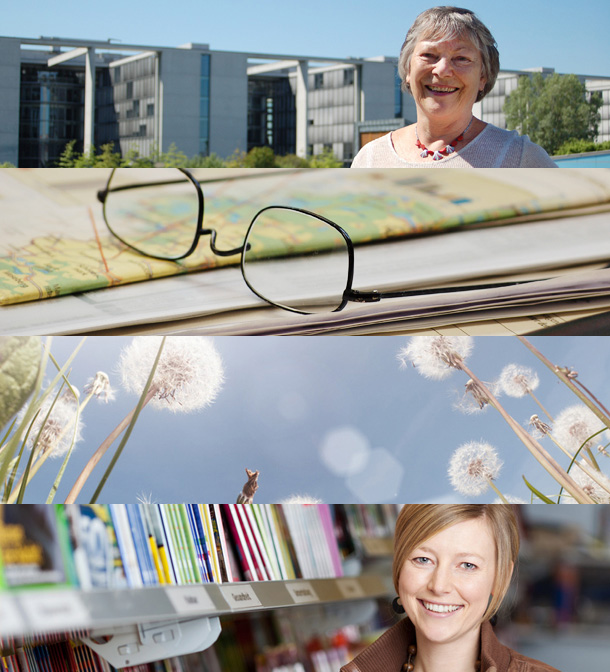
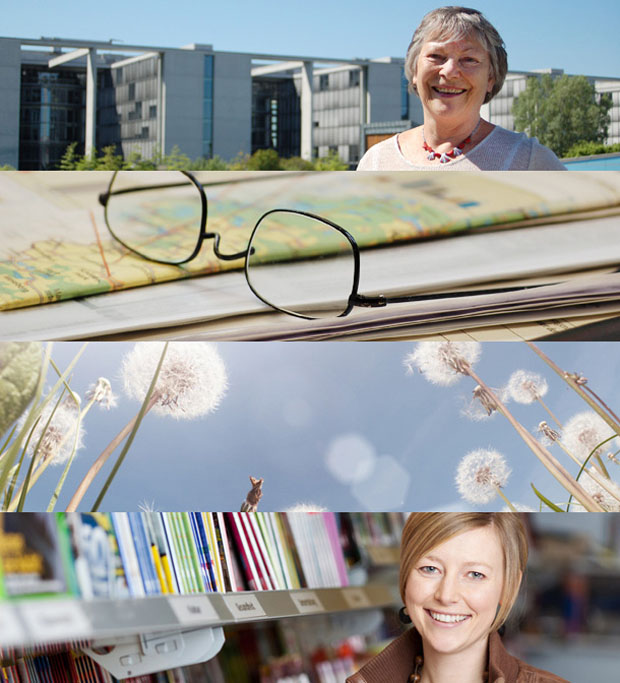
[AW-1188] make slider 620px

diff --git a/sites/all/themes/custom/parliamentwatch/css/slider.css b/sites/all/themes/custom/parliamentwatch/css/slider.css
@@ -35,6 +35,7 @@
 }
 .view-slider {
     height: 168px !important;
+    position: relative;
 }
 .view-slider #views_slideshow_cycle_teaser_section_slider-block,
 .view-slider #views_slideshow_cycle_main_slider-block,
@@ -76,10 +77,10 @@
 .view-slider #views_slideshow_cycle_main_slider-block,
 .ds-right-1 .view-slider #views_slideshow_cycle_main_slider-block {
     position: absolute;
-    right: 331px;
+    right: 321px;
     top: 0;
     height: 168px !important;
-    width: 610px;
+    width: 620px;
 }
 .view-slider .views-slideshow-controls-text-previous a {
     width: 26px;
@@ -118,9 +119,9 @@
     position: relative;
 }
 .view-slider .views-slideshow-controls-top {
-    bottom: 34px;
+    bottom: 0;
     position: absolute;
-    right: 331px;
+    right: 321px;
     z-index: 13;
 }
 .view-slider .views-slideshow-controls-bottom {

diff --git a/sites/all/themes/custom/parliamentwatch/js/slider.js b/sites/all/themes/custom/parliamentwatch/js/slider.js
@@ -6,11 +6,11 @@ jQuery(document).ready(function() {
 
     jQuery("#widget_pager_bottom_slider-block").click(function () {
     
-        if(jQuery('#block-views-slider-block .views-slideshow-controls-top').css('display') != 'block') {
+        if(jQuery('.view-slider .views-slideshow-controls-top').css('display') != 'block') {
             jQuery('.slider-stage').animate({
                 paddingTop: "188px"
             }, 500, function() {
-                    jQuery('#block-views-slider-block .views-slideshow-controls-top').fadeIn('slow');
+                    jQuery('.view-slider .views-slideshow-controls-top').fadeIn('slow');
                     jQuery('#views_slideshow_cycle_main_slider-block').fadeIn('slow');
             });          
         } return false;

diff --git a/sites/all/themes/custom/parliamentwatch/css/parliamentwatch-alpha-default-normal.css b/sites/all/themes/custom/parliamentwatch/css/parliamentwatch-alpha-default-normal.css
@@ -28,15 +28,15 @@ html {
 }
 
 
-#block-views-slider-block #views_slideshow_cycle_main_slider-block,
-#block-views-slider-block .views-slideshow-controls-top {
-    width: 610px;
+.view-slider #views_slideshow_cycle_main_slider-block,
+.view-slider .views-slideshow-controls-top {
+    width: 620px;
 }
-#block-views-slider-block .views-slideshow-controls-bottom {
+.view-slider .views-slideshow-controls-bottom {
     width: 300px;
 }
-#block-views-slider-block .views-slideshow-controls-top {
-    width: 610px !important;
+.view-slider .views-slideshow-controls-top {
+    width: 620px !important;
 }
 
 

diff --git a/sites/abgeordnetenwatch.de/themes/abgeordnetenwatch/css/abgeordnentenwatch.css b/sites/abgeordnetenwatch.de/themes/abgeordnetenwatch/css/abgeordnentenwatch.css
@@ -124,13 +124,13 @@ a.header_login {
     background-position: 0 0;
 }
 #views_slideshow_cycle_div_slider-block_1 {
-    background-position: 0 -168px;
+    background-position: 0 -171px;
 }
 #views_slideshow_cycle_div_slider-block_2 {
-    background-position: 0 -336px;
+    background-position: 0 -342px;
 }
 #views_slideshow_cycle_div_slider-block_3 {
-    background-position: 0 -504px;
+    background-position: 0 -512px;
 }
 #views_slideshow_pager_field_item_bottom_slider-block_0 .item {
     background-position: -965px -760px;
